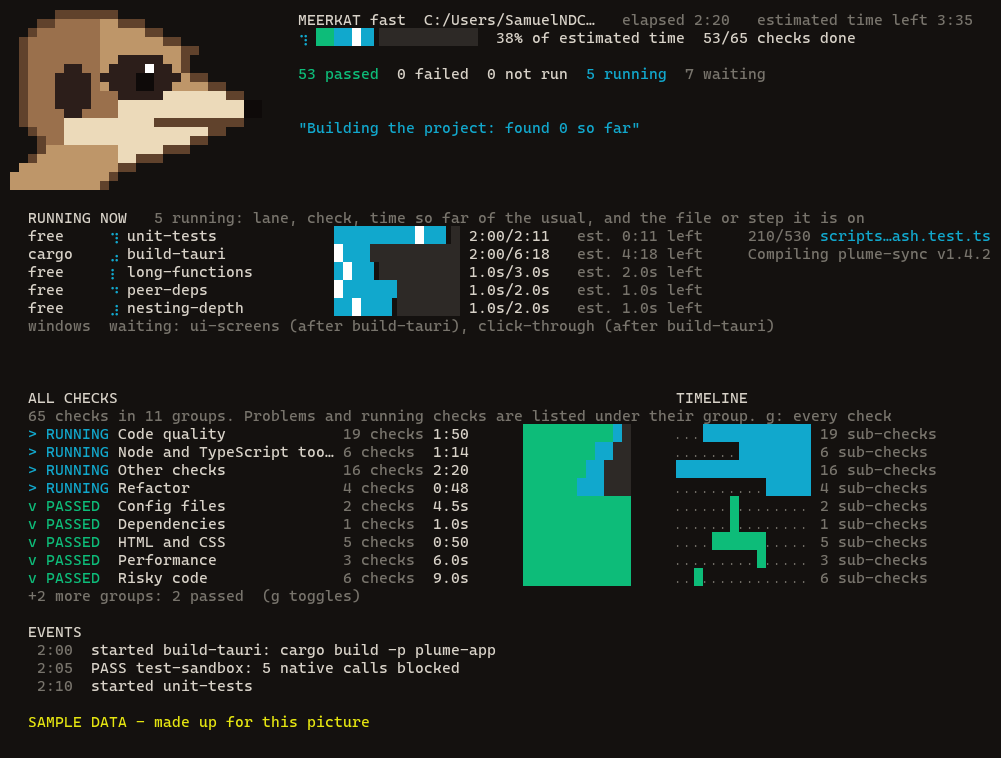
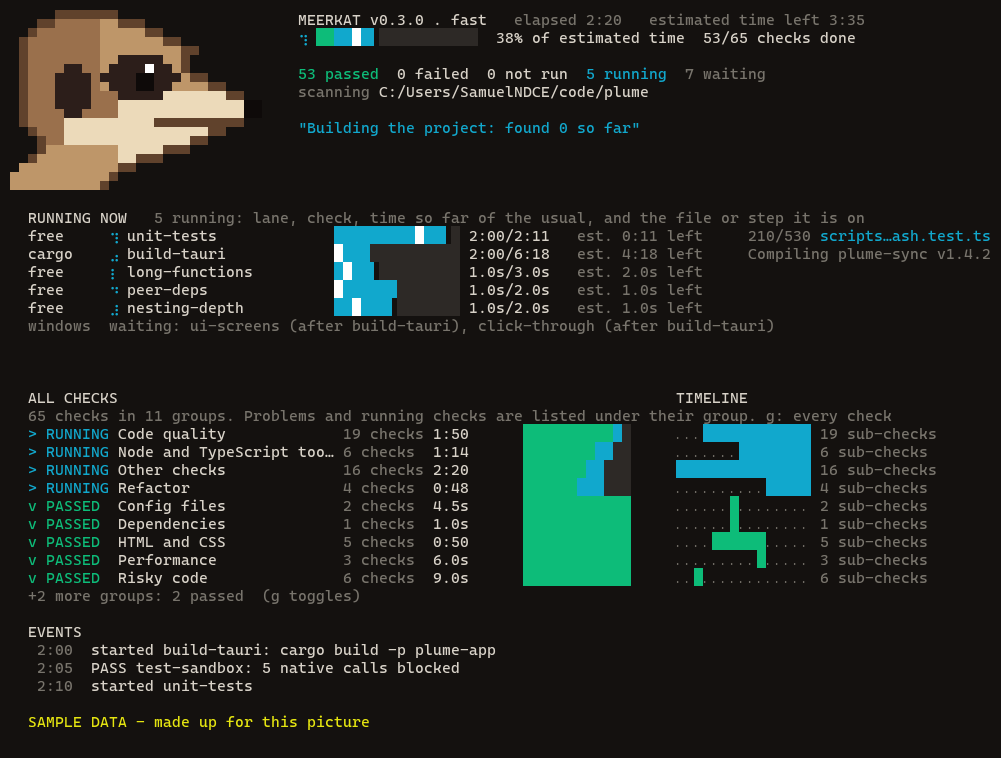
Board shows the full scanned folder and the real preset; README counts

diff --git a/README.md b/README.md
@@ -7,6 +7,10 @@
 **One command that checks your whole project before you ship it.**<br>
 Security, correctness, accessibility, performance and code health, for any kind of app, with every result saved and explained.
 
+<!-- counts:start -->
+**360 checks · 1406 sub-checks · 47 suites.** A check is one scan or tool run; a sub-check is one rule inside it, so a failure names the exact rule. These are the checks Meerkat ships: any you add yourself are extra.
+<!-- counts:end -->
+
 ![Meerkat running: what is running now, a status line, every check with its time, and a timeline](docs/images/meerkat-run.gif)
 
 <sub>Sample data: a made-up project, drawn by Meerkat's real screens.</sub>
